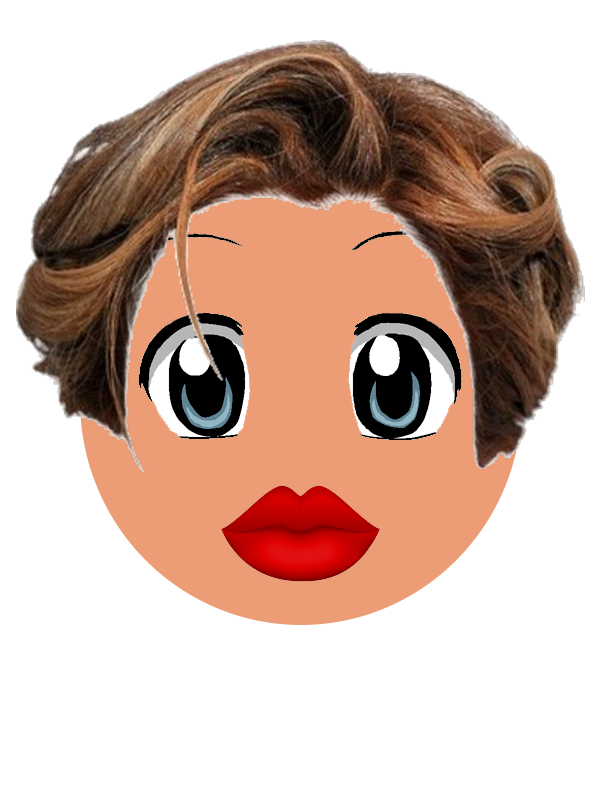
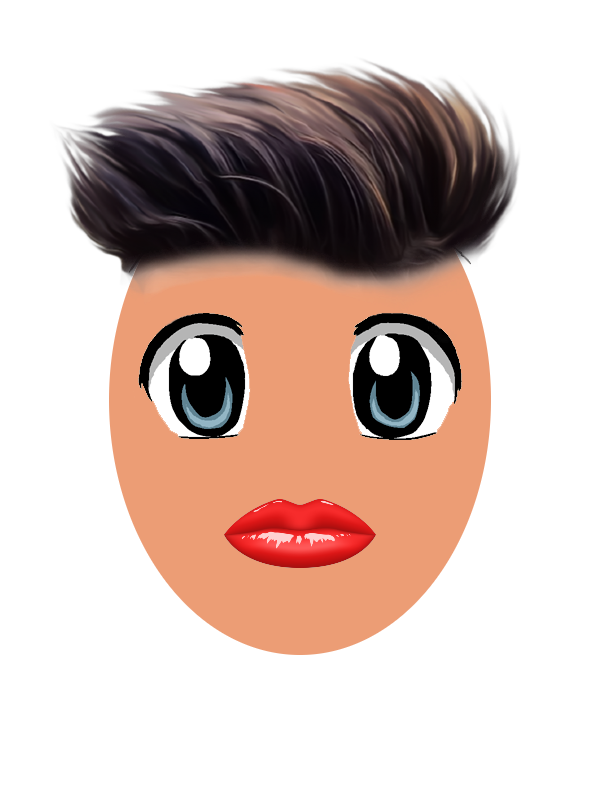
select assets instead of doing one way scroll

diff --git a/templates/avatar/customer_avatar.html b/templates/avatar/customer_avatar.html
@@ -13,7 +13,7 @@ Avatar Customisation Page
 
     <style>
         body{
-          background-color: #000;
+          background-color: #fff;
         }
         .carousel{
           margin-top: 50px;
@@ -27,16 +27,16 @@ Avatar Customisation Page
         }
 
         .cropped {
-            width: 300px;
-            height: 400px;
+            width: 150px;
+            height: 200px;
             overflow: hidden;
-            border: 5px solid #555;
             object-fit: cover;
         }
 
         .cropped img {
             margin: -150px 0px 0px -150px;
         }
+
 
 
 
@@ -53,7 +53,7 @@ Avatar Customisation Page
                 <div class="col">
                     <form action="" method="post">
                         <button type="submit" name="slider" value="prev"><span class="carousel-control-prev-icon"
-                                                                             aria-hidden="true"></span></button>
+                                                                               aria-hidden="true"></span></button>
                     </form>
                 </div>
                 <div class="col">
@@ -62,17 +62,20 @@ Avatar Customisation Page
                 <div class="col">
                     <form action="" method="post">
                         <button type="submit" name="slider" value="next"><span class="carousel-control-next-icon"
-                                                                             aria-hidden="true"></span></button>
+                                                                               aria-hidden="true"></span></button>
                     </form>
                 </div>
             </div>
 
             <div class="row">
-                <div class="container">
-                    {% for asset in menu.tab_items[menu.selected_tab] %}
-                        <img class="cropped" src="{{ asset }}" width="600" height="600">
-                    {% endfor %}
-                </div>
+                <form method="post">
+                    <div class="container">
+                        {% for asset in menu.tab_items[menu.selected_tab] %}
+                            <button name="select" value="{{ asset }}"><img class="cropped" src="{{ asset }}" width="600"
+                                                                          height="600"></button>
+                        {% endfor %}
+                    </div>
+                </form>
             </div>
         </div>
 
@@ -86,18 +89,18 @@ Avatar Customisation Page
                 </div>
 
                 <div class="col-sm">
-                    <form method="POST">
-                        <input type="submit" name="next" value="hairstyles">
-                    </form>
-                    <form method="POST">
-                        <input type="submit" name="next" value="faceshape">
-                    </form>
-                    <form method="POST">
-                        <input type="submit" name="next" value="eyes">
-                    </form>
-                    <form method="POST">
-                        <input type="submit" name="next" value="lips">
-                    </form>
+<!--                    <form method="POST">-->
+<!--                        <input type="submit" name="next" value="hairstyles">-->
+<!--                    </form>-->
+<!--                    <form method="POST">-->
+<!--                        <input type="submit" name="next" value="faceshape">-->
+<!--                    </form>-->
+<!--                    <form method="POST">-->
+<!--                        <input type="submit" name="next" value="eyes">-->
+<!--                    </form>-->
+<!--                    <form method="POST">-->
+<!--                        <input type="submit" name="next" value="lips">-->
+<!--                    </form>-->
                     <form method="POST">
                         <input type="submit" name="save" value="save">
                     </form>

diff --git a/routes/avatar.py b/routes/avatar.py
@@ -56,6 +56,15 @@ def avatar():
                     # db[user_id] = [preview, avatar_list]
                     avatarSave(preview, user_id, avatar_list, db)
 
+                elif 'select' in request.form:
+                    asset = request.form['select']
+                    attr = asset.split("/")
+                    attr = attr[4]
+                    print(asset, attr)
+                    preview.select(asset, attr)
+                    preview.save_avatar(user_id + "/preview")
+                    db[user_id] = [preview, avatar_list]
+
                 else:
                     pass
 

diff --git a/models/avatar/Avatar.py b/models/avatar/Avatar.py
@@ -43,6 +43,9 @@ class Avatar:
         else:
             setattr(self, attr, assets[index + 1])
 
+    def select(self, asset, attr):
+        setattr(self, attr, asset)
+
 class Menu:
     def __init__(self, tabs, selected_tab, tab_items):
         self.tabs = tabs
